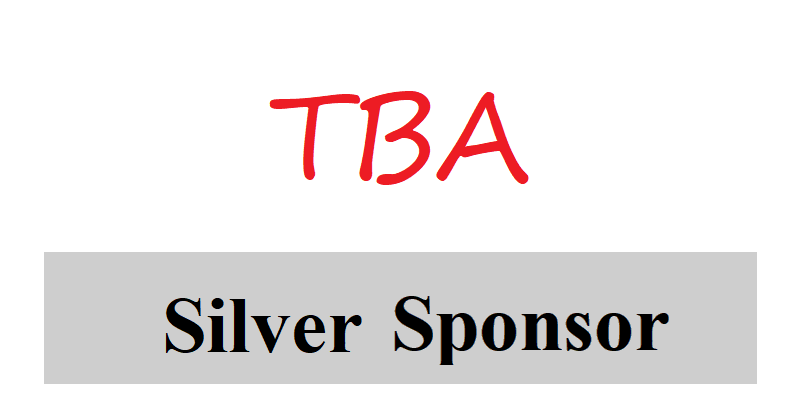
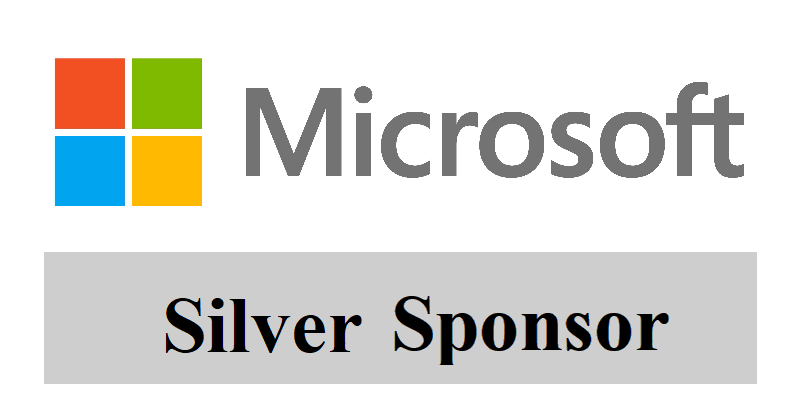
m

Changed region(s): [[0.2812, 0.21, 0.9375, 0.48], [0.0625, 0.12, 0.25, 0.54]]

diff --git a/BigDataSociety/Hackathon/2018-07/index.html b/BigDataSociety/Hackathon/2018-07/index.html
@@ -138,7 +138,7 @@
 
             <a href="http://www.sas.com/students" target="_blank"><img src="image\Platinum.png" width="200" /></a> &nbsp;&nbsp;&nbsp;&nbsp;
             <a href="https://www.yellowfinbi.com/" target="_blank"><img src="image\Gold.png" width="200" /></a> &nbsp;&nbsp;&nbsp;&nbsp;
-            <a href="#" target="_blank"><img src="image\Silver.png" width="200" /></a> &nbsp;&nbsp;&nbsp;&nbsp;
+            <a href="https://www.microsoft.com" target="_blank"><img src="image\Silver.png" width="200" /></a> &nbsp;&nbsp;&nbsp;&nbsp;
             <a href="#" target="_blank"><img src="image\Bronze.png" width="200" /></a> 
 
             
